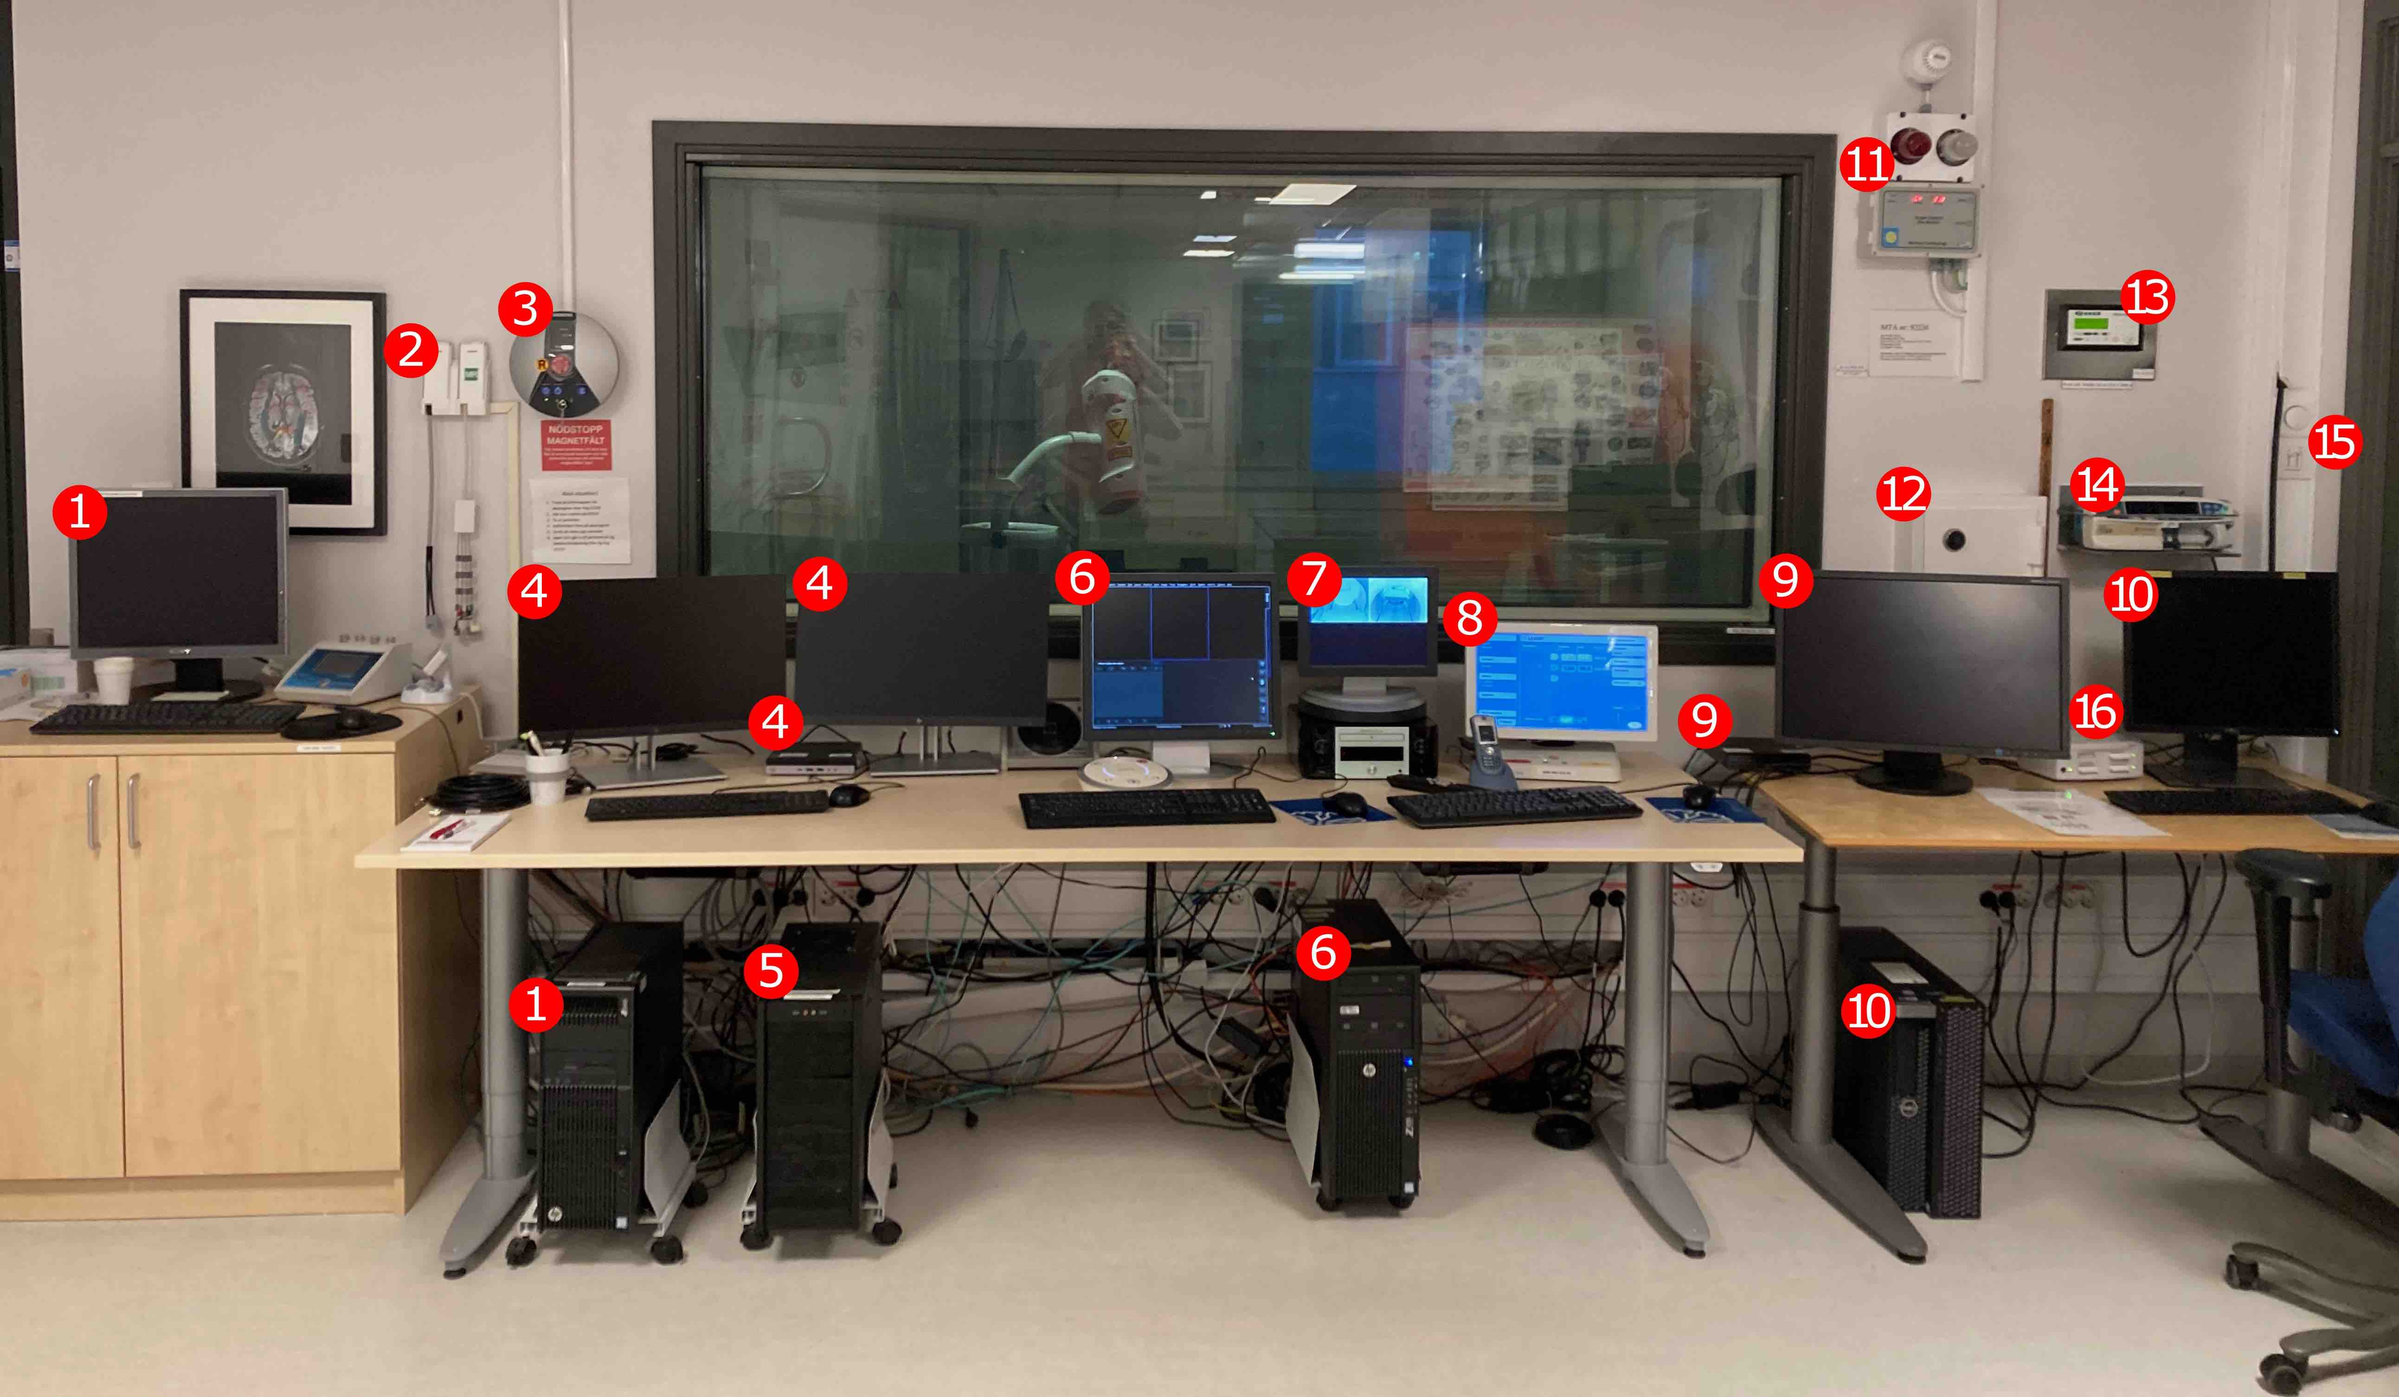
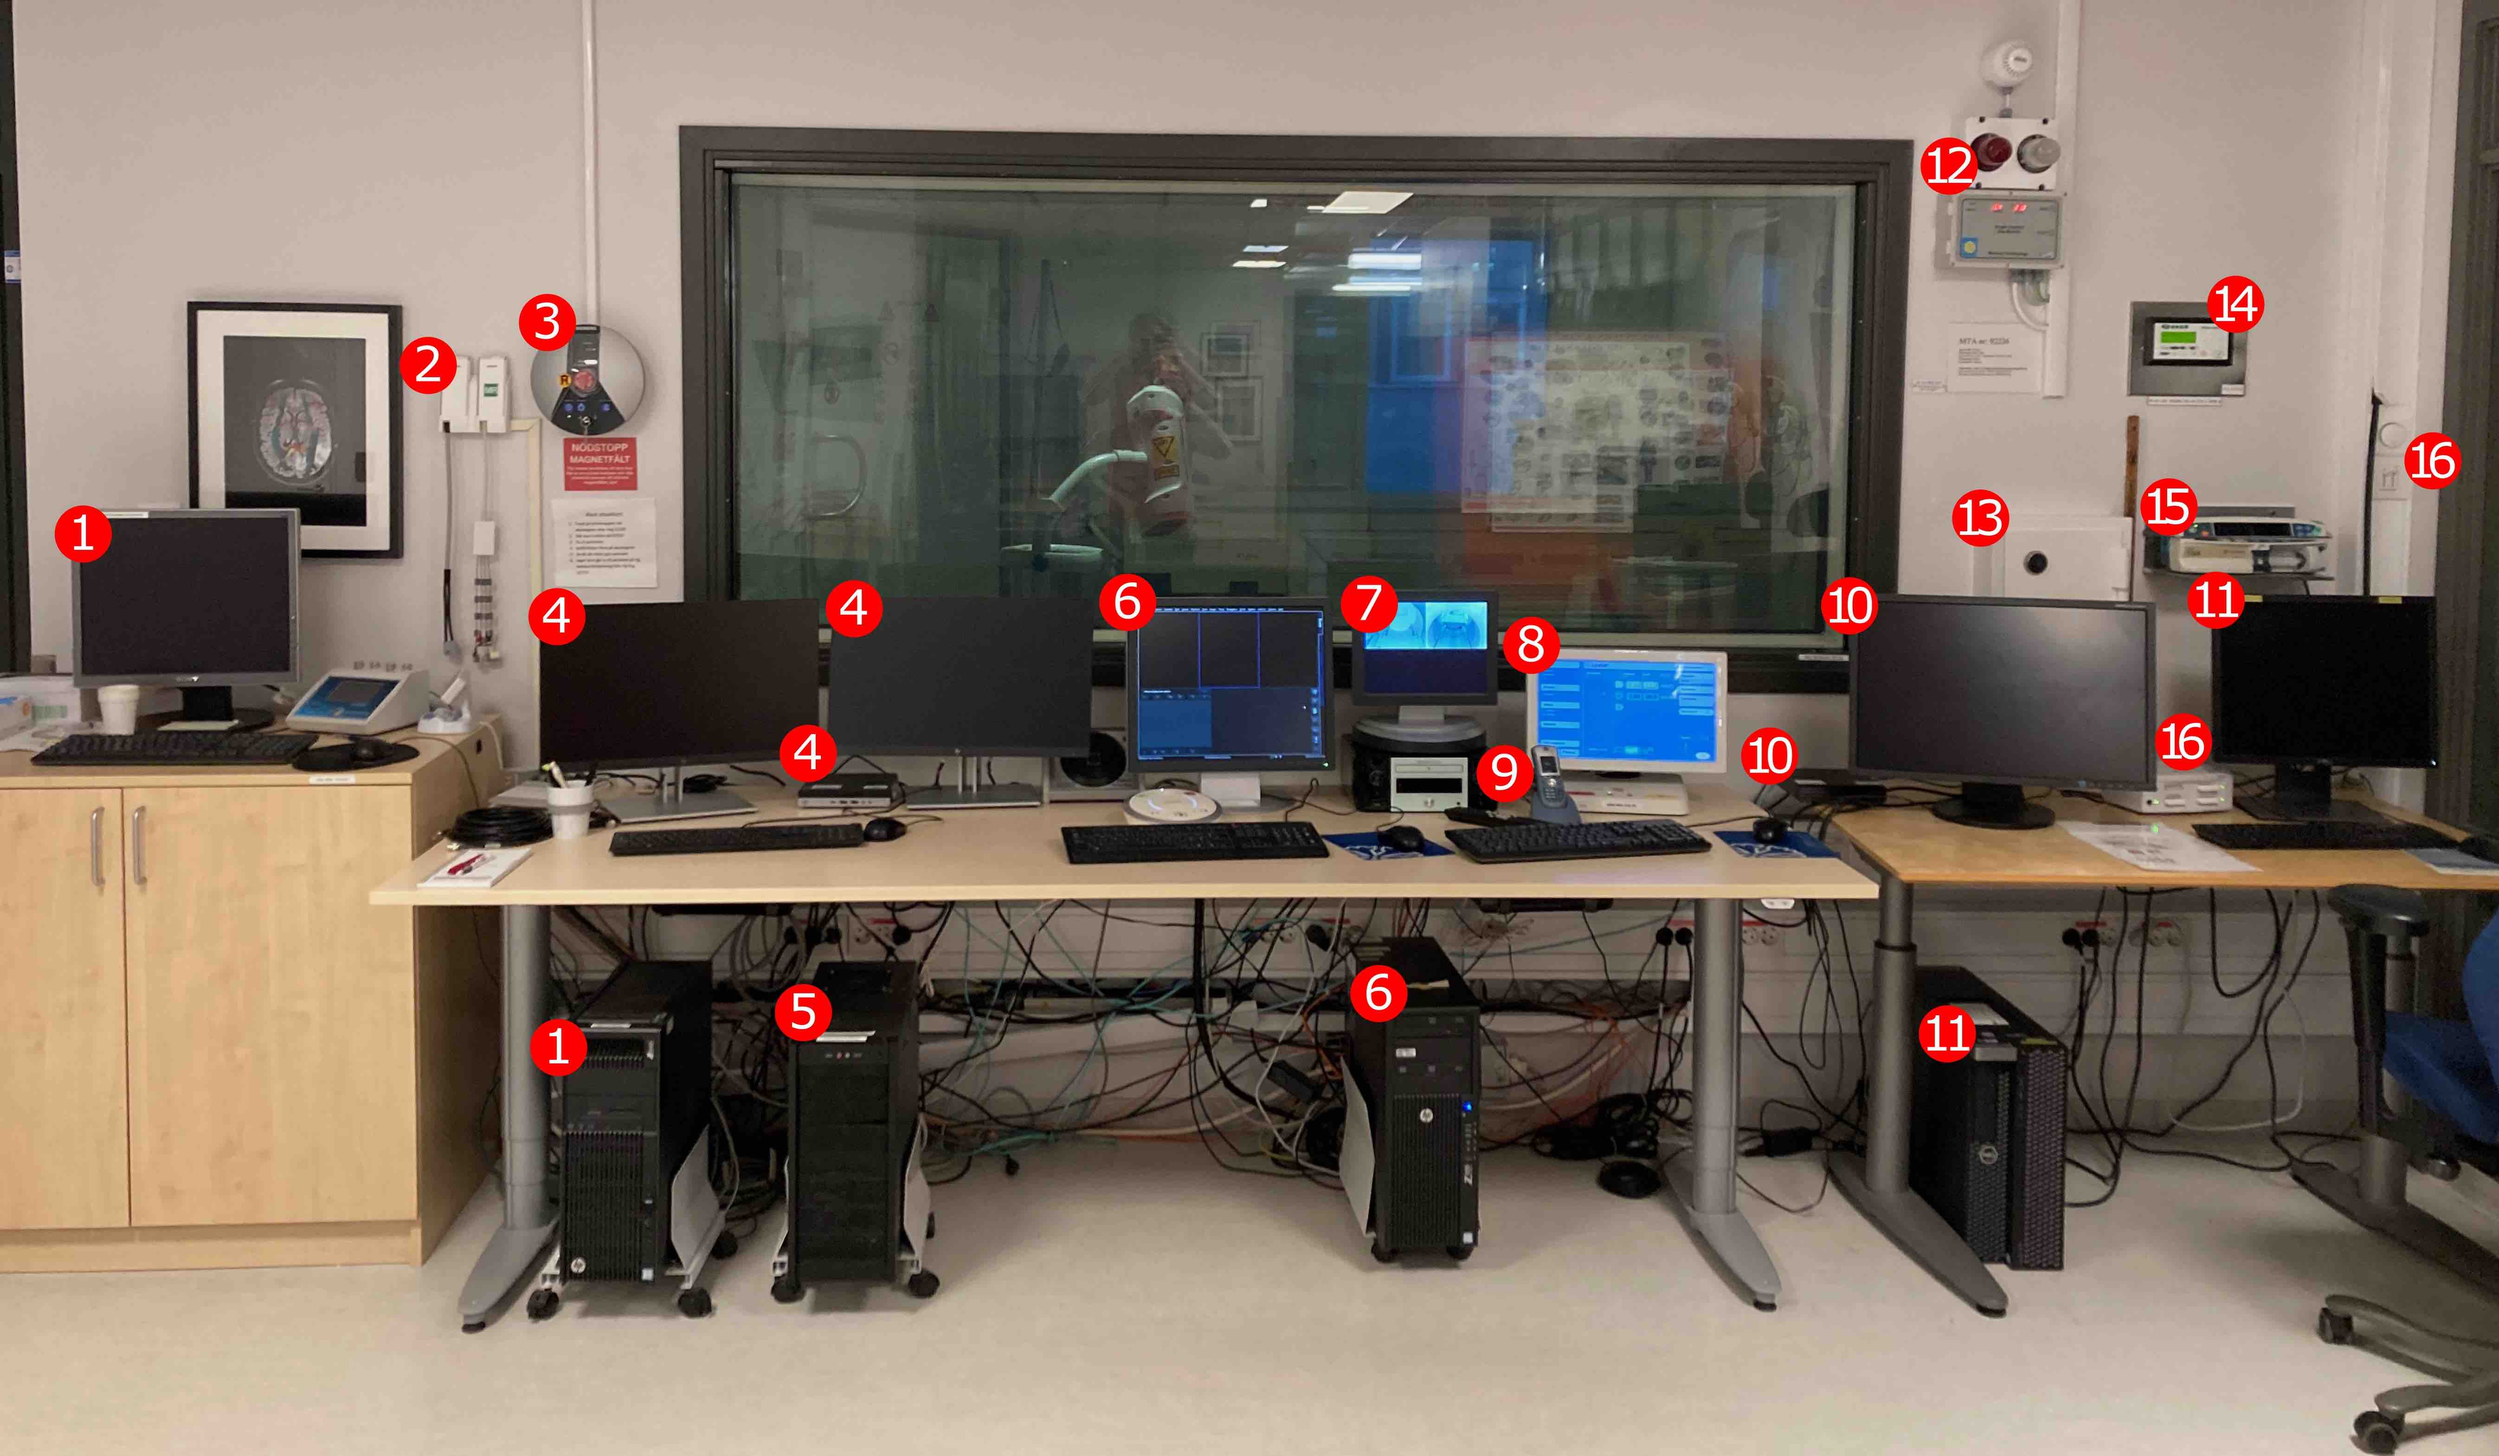
Update

diff --git a/content/mr6/mr6-operator-instructions.html b/content/mr6/mr6-operator-instructions.html
@@ -67,10 +67,10 @@
 
 
             <!-- Dropdown header -->
-            <details><summary>When is a <em>Metodbok</em> necessary?</summary>
+            <details><summary>When is a "Metodbok" necessary?</summary>
                 <!-- Text -->
                 <p>
-                    You are <strong>required</strong> to create a <em>Metodbok</em> (method book) if you are scanning participants in your study with the help of clinical staff, who will be using the book to assure that the correct scanning procedure is being followed. 
+                    You are <strong>required</strong> to create a "Metodbok" (method book) if you are scanning participants in your study with the help of clinical staff, who will be using the book to assure that the correct scanning procedure is being followed. 
                 </p>
                 <p>
                     To create a metodbok you need to consult the clinical personal in your project in order to setup the necessary documentation.
@@ -90,6 +90,38 @@
                 <p>
                     <a href="../cmiv-mr-guidelines.pdf">Documentation around administrative policies can be found here</a>, including scheduling, billing and responsibilities.
                 </p>
+            </details>
+
+            <!-- Dropdown header -->
+            <details><summary id="phone-numbers">Which phone-numbers are good to memories?</summary>
+                <!-- Text -->
+                <p>
+                    It case something happens at the scanner, either patient or equipment related, it is good to know where you can turn for help. Therefore we list some numbers below that is good to memories.
+                </p>
+                <p>
+                    <strong>Note:</strong> We list the internal hospital numbers which all start with 3 and are 5 digits long. If you are calling from a non-hospital phone, you need to add <strong>01010</strong> before dialing the number.
+                </p>
+                <p>
+                    <ul>
+                        <li>
+                            Need of acute <em>Doctor's help</em>: <strong>31100</strong><br>
+                            You can also use the emergency console "Acute help", see <a href="#acute-help">Where are all the safety buttons and fire extinguishers?</a>.
+                        </li>
+                        <li>
+                            Need of acute <em>Technical help</em>: <strong>36000</strong><br>
+                            This number leads to Stöd och Service, which is the central help function at the hospital.
+                        </li>
+                        <li>
+                            MR6 Modality Manager <em>Viktor Kostic</em>: <strong>38295</strong><br>
+                            Viktor is in charge of the MR6 scanner as should be notified if something is not working. If not acute you can send an email to <a href="mailto:viktor.kostic@regionostergotland.se">Viktor</a>.
+                        </li>
+                        <li>
+                            Hospital Medical Technologist <em>Bo Wahlström</em>: <strong>33898</strong><br>
+                            Bo (Bosse) is very technical knowledgeable about MR6 and the various equipment installed and can therefore usually help with a variety of problems. You can also email <a href="mailto:bo.wahlstrom@regionostergotland.se">Bosse</a> if not acute.
+                        </li>
+                    </ul>
+                </p>
+    
             </details>
 
 
@@ -183,6 +215,7 @@
                         <li>Console computer</li>
                         <li>Camera monitor</li>
                         <li>Constrast inj. control</li>
+                        <li>Hospital phone</li>
                         <li>Hospital computer</li>
                         <li>NovaFlow computer</li>
                         <li>Gas Alarm</li>
@@ -205,7 +238,7 @@
                 <h2>Gradient, Power Supply and Cryopump cabinet</h2>
                 <p>
                     <img decoding="async" loading="lazy" src="images/cmiv/gradient-amplifiers-cryo.jpg" alt="mr6-gradient-amplifiers-cryo-cabinet" style="width:300px"><br>
-                    From left: Gradient cabinet, Power Supply cabinet and Cryopump cabinet 
+                    From left: Gradient, Power Supply and Cryopump cabinet 
                 </p>
                 <p>
                     The Cryopump is an important piece equipment in an MR scanner, and is responsible for cooling Helium. It is this pump that makes the repetitive noise (‘hm-tjuk-hm-tjuk-hm-tjuk…’). If not, please advise the MR-manager, or other staff that can take care of the condition.
@@ -216,11 +249,11 @@
                     The climate in the scanner room is closely regulated by equipment in the technical room.
                 </p>
                 <div class="row">
-                    <div class="column">
+                    <div class="column" style="width: 30%;">
                         <img decoding="async" loading="lazy" src="images/cmiv/dehumidifier.jpg" alt="dehumidifier" style="height:200px;"><br>
                         Dehumidifier
                     </div>
-                    <div class="column">
+                    <div class="column" style="width: 70%;">
                         <img decoding="async" loading="lazy" src="images/cmiv/humidifer.jpg" alt="humidifer" style="height:200px;"><br>
                         Humidifier
                     </div>
@@ -244,7 +277,7 @@
             </details>
 
             <!-- Dropdown header -->
-            <details><summary>Where are all the safety buttons and fire extinguishers?</summary>
+            <details><summary id="acute-help">Where are all the safety buttons and fire extinguishers?</summary>
                 <!-- Text -->
                 <p>
                     The figure below shows an overview of the MR5/MR6 floor plan at CMIV, including Quench button, Electric stop, Fire extinguisher.
@@ -908,9 +941,10 @@
 
             <!-- Section header -->
             <h2>Troubleshooting</h2>
+            
 
             <!-- Dropdown header -->
-            <details><summary>I can't hear anything happening! How can I tell what the scanner is doing?</summary>
+            <details><summary>How can I tell what the scanner is doing?</summary>
             <!-- Text -->
 
             <p>Look in the very bottom left-hand corner of the screen. It might say, for example: “Waiting for scan instructions,” or “Waiting for slice positioning,” or “Scanning 00:09 (196/200 B).” That last message tells you there are 9 seconds left in the current scan, and that it's just finished acquiring 196 of 200 repetitions in a time series. The other messages are usually self-explanatory.</p>
@@ -931,7 +965,7 @@
             </details>
 
             <!-- Dropdown header -->
-            <details><summary>The scanner doesn't seem to be working properly, how can I tell what is wrong and what can I do?</summary>
+            <details><summary>The scanner doesn't work properly, how can I tell what is wrong and what can I do?</summary>
             <!-- Text -->
 
             <p>All warnings and errors are represented as pop up boxes and/or as icons at the bottom of the screen.</p>
@@ -949,10 +983,10 @@
                 <img decoding="async" loading="lazy" style="width: 500px;" src="images/cbs/Icons_SystemError.jpeg" alt="console warning"></p>
 
             <p>
-                To view what the error/warning is, click on the icon. A pop up box will have the message. If you choose okay, it will clear the message, so it is generally better to press the close button so that these don't get cleared. It is also a good idea to write down or take a&nbsp;<a href="#screen-shot">screen shot</a>&nbsp;of the message so that you can relay it to <a href="mailto:viktor.kostic@regionostergotland.se">Viktor Kostic</a> who is responsible for MR6. If you have an error/warning during regular business hours you could try and contact Viktor directly, you will find his phone number on the white-board behind the control room.
+                To view what the error/warning is, click on the icon. A pop up box will have the message. If you choose okay, it will clear the message, so it is generally better to press the close button so that these don't get cleared. It is also a good idea to write down or take a&nbsp;<a href="#screen-shot">screen shot</a>&nbsp;of the message so that you can relay it to <a href="mailto:viktor.kostic@regionostergotland.se">Viktor Kostic</a> who is the manager for MR6. If you have an error/warning during regular business hours you could try and contact Viktor directly, you will find his phone-number under <a href="#phone-numbers">Which phone-numbers are good to memories?</a>
             </p>
             <p>
-                If it is after hours you can try talking to the hospital general <em>Stöd och service</em> by calling: 010 103 60 00. Hopefully you will get in contact with someone who can assist you. However, there is no guarantee; that is the risk that comes from scanning outside of business hours. There should usually be someone around between 7:30-16:00 during weekdays.
+                If it is after hours you can try talking to the hospital's <a href="#phone-numbers">Stöd och service</a>. Hopefully you will get in contact with someone who can assist you. However, there is no guarantee; that is the risk that comes from scanning outside of business hours. There should usually be someone around between 7:30-16:00 during weekdays.
             </p>
 
             <p>
